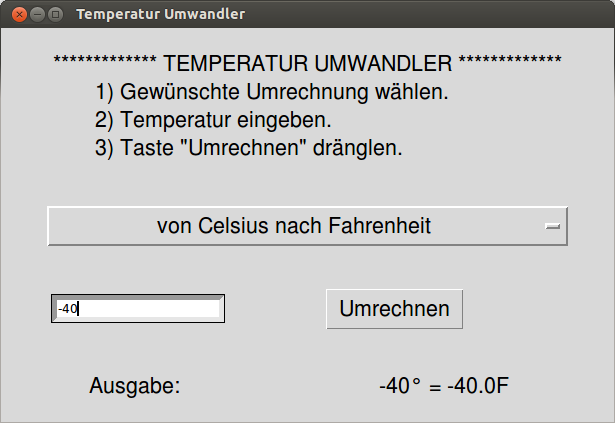
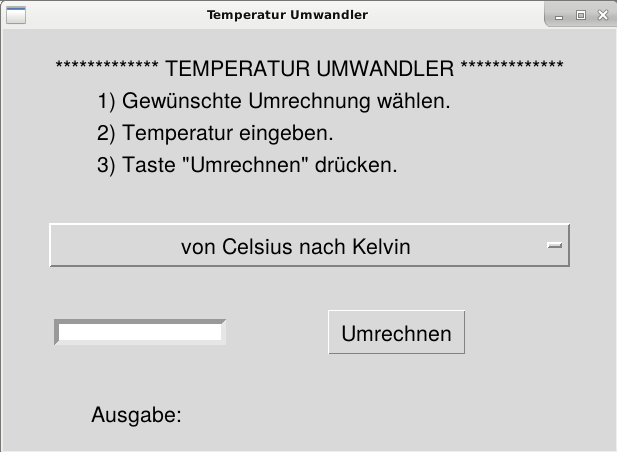
Kapitel Aufgabensammlung: Viele Sätze umformuliert und Grammatikfehler korrigiert. Bis und mit Aufgabe 10.2.2.

diff --git a/source/code/musterloesungen/temperatur_gui.py b/source/code/musterloesungen/temperatur_gui.py
@@ -75,7 +75,7 @@ info = Label(fenster, justify = LEFT, font=("Helvetica", 16),
 ************* TEMPERATUR UMWANDLER *************
        1) Gewünschte Umrechnung wählen.
        2) Temperatur eingeben.
-       3) Taste "Umrechnen" dränglen.""")
+       3) Taste "Umrechnen" drücken.""")
 
 u1 = "von Celsius nach Kelvin"
 u2 = "von Celsius nach Fahrenheit"

diff --git a/source/code/musterloesungen/hello_i_am.py b/source/code/musterloesungen/hello_i_am.py
@@ -3,4 +3,5 @@
 # author: Martino Antognini (uzh)
 
 print("Hallo Welt!")
-print("Ich heisse Guido van Rossum, ich bin am 31. Januar 1956 geboren und bin der Autor der Programmiersprache Python!")
+print("Ich heisse Guido van Rossum, ich bin am 31. Januar 1956 geboren \
+und bin der Autor der Programmiersprache Python!")

diff --git a/source/code/musterloesungen/bogen_nach_gradmass.py b/source/code/musterloesungen/bogen_nach_gradmass.py
@@ -2,7 +2,7 @@
 # -*- coding: utf8 -*-
 # author: Martino Antognini (uzh)
 
-# Wir brauchen die Zahl pi vom library "math"
+# Wir brauchen die Zahl pi von der Library "math"
 from math import pi
 
 rad = float(input("Winkel in Bogenmass eingeben: "))

diff --git a/source/aufgabensammlung.rst b/source/aufgabensammlung.rst
@@ -7,21 +7,15 @@ Aufgabensammlung
 In diesem Kapitel findest du eine Sammlung von Aufgaben. Die Aufgaben sind in
 vier Teilgebiete gegliedert.
 
-Am Anfang jeder Aufgabe ist eine Liste der Kapiteln vorgegeben, die
-man für das Lösen gelesen haben soll. Zu jeder Aufgabe gibt es eine
-Musterlösung. Die Musterlösungen sind ``.py``-files und können heruntergeladen
-werden. Die Kommentare am Anfang der Dateien können ignoriert werden.  Diese
-Dateien können auf zwei Arten ausgeführt werden:
+Zu Beginn jeder Aufgabe sind die Vorkenntnisse angegeben,
+d.h. welche Kapitel mal zum Lösen gelesen haben sollte.
+Zu jeder Aufgabe gibt es eine Musterlösung. 
+Die Musterlösungen sind die ``*.py``-files 
+und können heruntergeladen werden. 
+Die Kommentare am Anfang der Dateien können ignoriert werden. 
 
-- File mit IDLE öffnen und Programm mit der F5-Taste (Run -> Run Module) 
-  ausführen.
-- Befehl ``python3 filename.py`` im Terminal eingeben. Man muss aber zuerst im
-  richtigen Verzeichnis sein. Zum Beispiel, wenn die Datei im Verzeichnis
-  *Home->Workspace->PythonWorkspace* gespeichert wurde, muss man zuerst mit
-  ``cd Home/Workspace/PythonWorkspace`` sich verlagern (``cd`` bedeutet *change
-  directory*).
-
-Ausserdem gibt es Zusatzaufgaben, für die keine Musterlösung vorhanden ist.
+Weiter gibt es jeweils noch eine Zusatzaufgabe, 
+für welche keine Musterlösung vorhanden ist.
 
 Allgemein
 =========
@@ -31,14 +25,14 @@ Hello World! I'm...
 
 **Vorkenntnisse:** Kapitel 1.
 
-Erstelle ein Programm, das deinen Vorname, Nachname und Geburtsdatum auf der
-Konsole aufdruckt.
+Erstelle ein Programm, das deinen Vorname, Nachname 
+und dein Geburtsdatum auf der Konsole ausgibt.
 
 **Musterlösung:**
 :download:`hello_i_am.py <code/musterloesungen/hello_i_am.py>`.
 
-**Zusatzaufgabe:** Erweitere dein Programm, indem es auch zum Beispiel deine 
-Adresse oder dein Telefonnummer aufdruckt.
+**Zusatzaufgabe:** Erweitere dein Programm, 
+indem es zum Beispiel auch deine Adresse oder deine Telefonnummer ausgibt.
 
 
 Winkelmass Umwandler
@@ -46,34 +40,38 @@ Winkelmass Umwandler
 
 **Vorkenntnisse:** Kapitel 1 bis 3.
 
-Schreibe ein Programm, das, gegeben einen Winkel in Bogenmass, den 
-entsprechenden Winkel in Gradmass berechnet. Die Ausgabe muss mit Grad (°),
-Bogenminuten (\') und Bogensekunden (\") aufgewiesen werden.
+Schreibe ein Programm, 
+das zu einem gegebenen Winkel im Bogenmass
+(Eingabe in der Konsole durch den Benutzer), 
+den entsprechenden Winkel im Gradmass berechnet. 
+Die Ausgabe soll mit Grad (°), Bogenminuten (\') 
+und Bogensekunden (\") ausgegeben werden.
 
 Hinweise:
 
-- Die Zahl :math:`\pi` kannst du vom Modul ``math`` importieren, indem du
-  folgendes Befehl am Anfang deines Programms schreibst:
-  ``from math import pi``. Du kannst dann im Programm mit der Variable ``pi``
-  arbeiten.
+- Die Zahl :math:`\pi` kann vom Modul ``math`` mit dem folgenden Befehl
+  geladen werden: ``from math import pi``. 
+  Der Wert ist dann in der Variable ``pi`` gespeichert.
 - Überlege dir, wie man die zwei Befehle :py:func:`input()` und 
-  :py:func:`float()` benutzen kann, um eine Flieskommazahl lesen zu können.
+  :py:func:`float()` benutzen kann, 
+  um eine Flieskommazahl einzulesen.
 
 **Musterlösung:**
 :download:`bogen_nach_gradmass.py 
 <code/musterloesungen/bogen_nach_gradmass.py>`.
 
-**Zusatzaufgabe:** Schreibe ein anderes Programm, das die umgekehrte Umrechnung
-durchführt.
+**Zusatzaufgabe:** Schreibe ein Programm, 
+welches die Umrechnung vom Gradmass ins Bogenmass übernimmt.
 
 Temperatur Umwandler
 --------------------
 
 **Vorkenntnisse:** Kapitel 1 bis 5.
 
-Schreibe ein Programm, das Temperaturen in verschiedenen Skalensystemen
-umwandelt. Das Programm soll ein Anfangsmenü mit den verschiedenen
-Möglichkeiten haben::
+Schreibe ein Programm, 
+das Temperaturen in verschiedene Skalensystemen ineinander umwandelt. 
+Das Programm soll zu Beginn eine Auswahl mit den verschiedenen
+Möglichkeiten anbieten::
 
    (1) Umrechnung von Celsius nach Kelvin
    (2) Umrechnung von Celsius nach Fahrenheit
@@ -82,62 +80,66 @@ Möglichkeiten haben::
    (5) Umrechnung von Fahrenheit nach Celsius
    (6) Umrechnung von Fahrenheit nach Kelvin
 
-Achte auf folgende Bemerkungen:
+.. note:: Dies kann dir sicher helfen.
 
-- Celsius = 5/9 * (Fahrenheit - 32).
-- Celsius = Kelvin - 273.15.
-- Die tiefste mögliche Temperatur ist den absoluten Nullpunkt ``0K``.
+	  * Celsius = 5/9 * (Fahrenheit - 32).
+
+	  * Celsius = Kelvin - 273.15.
+
+	  * Die tiefste mögliche Temperatur ist den absoluten Nullpunkt ``0K``.
 
 Hinweise:
 
-- Benutze die :py:keyword:`if`-:py:keyword:`elif`-:py:keyword:`else`
+* Benutze die :py:keyword:`if`-:py:keyword:`elif`-:py:keyword:`else`
   Verzweigung.
 
 
 **Musterlösung:** :download:`temperatur_umwandler.py 
 <code/musterloesungen/temperatur_umwandler.py>`.
 
-**Zusatzaufgabe:** Passe deine Lösung der Aufgabe `Winkelmass Umwandler`_ so an,
-dass beide Umrechnungen (Bogen- nach Gradmass und umgekehrt) in einem einzelnen
-Programm möglich sind.
+**Zusatzaufgabe:** Passe deine Lösung aus der Aufgabe 
+`Winkelmass Umwandler` so an,
+dass beide Umrechnungen (Bogen- nach Gradmass und umgekehrt) 
+in einem einzelnen Programm möglich sind.
 
 Mit Funktionen
 --------------
 
 **Vorkenntnisse:** Kapitel 1 bis 6.
 
-Erweitere deine Lösung der vorherige Aufgabe, indem du für die
-Umrechnung 6 verschiedene Funktionen definierst. Passt ausserdem dein
-Programm so an, dass der Benutzer mehrere Temperaturen nacheinander umrechnen
-kann und selber dann das Programm beenden kann.
+Erweitere deine Lösung der vorherigen Aufgabe, 
+indem du für die Umrechnung 6 verschiedene Funktionen definierst. 
+Passe ausserdem dein Programm so an, 
+dass der Benutzer mehrere Temperaturen nacheinander umrechnen kann 
+und den Zeitpunkt zum Beenden des Programms selber bestimmt.
 
 Hinweise:
 
-- Bei der Implementierung von Programmen braucht man einige konstante Werte
-  (zum Beispiel brauchst du in dieser Aufgabe den Wert des absoluten Nullpunktes
-  :math:`-273.15` in Celsius-Skala).
-  Es ist lohnenswert, solche Konstanten am Anfang des Programms
-  zu definieren. In einiger Programmiersprache gibt es sogar die Möglichkeit, 
-  \"Variablen\" zu definieren, deren Wert nicht geändert werden kann. In Python
-  gibt allerdings diese Möglichkeit nicht. Per Konvention benennt der Ersteller
-  die Konstanten mit grossgeschriebenen Namen
-  (z.B. ``ABSOLUTER_NP_C = -273.15``).
-- Um nach einer Eingabe dem Benutzer zu fragen, kannst du folgende Funktion
-  benutzen:
+- Bei der Implementierung braucht man einige konstante Werte
+  (zum Beispiel brauchst du in dieser Aufgabe 
+  den Wert des absoluten Nullpunktes -273.15 in Grad Celsius).
+  Es lohnt sich solche Konstanten am Anfang des Programms zu definieren. 
+  In einigen Programmiersprachen gibt es sogar die Möglichkeit, 
+  \"Variablen\" zu definieren, deren Werte nicht geändert werden können. 
+  In Python gibt es diese Möglichkeit jedoch nicht. 
+  Per Konvention benennt der Entwickler die Konstanten mit 
+  grossgeschriebenen Buchstaben (z.B. ``ABSOLUTER_NP_C = -273.15``).
+- Um nach einer gültigen Eingabe des Benutzers zu fragen, 
+  kannst du die folgende Funktion benutzen:
 
 	.. literalinclude:: code/exception_muster.py
 	    	  :linenos:
 
-  Diese Funktion hat ein optionales Argument ``msg``. Wenn die Funktion ohne
-  Argumente aufgerufen wird, nimmt ``msg`` den vorgegebenen Wert
-  ``"Bitte Zahl eingeben: "``. Falls der Benutzer eine Zahl eingibt, so wird
-  diese zurückgegeben. Andere Eingaben werden allerdings nicht akzeptiert: das
-  Programm erkennt ungültige Eingabe mit der Ausnahmebehandlung
-  (:py:keyword:`try`-:py:keyword:`except`) und fragt unmittelbar nach einer
-  anderen Eingabe.
+  Diese Funktion hat ein optionales Argument ``msg``. 
+  Wenn die Funktion ohne Argumente aufgerufen wird, 
+  nimmt ``msg`` den vorgegebenen Wert ``"Bitte Zahl eingeben: "`` an. 
+  Falls der Benutzer eine Zahl eingibt, so wird diese zurückgegeben. 
+  Andere Eingaben werden nicht akzeptiert: das
+  Programm erkennt ungültige Eingaben mit der Ausnahmebehandlung
+  (:py:keyword:`try`-:py:keyword:`except`) und fragt solange,
+  bis eine gültige Eingabe getätigt wurde.
 - Analog kannst du ungültige Eingabewerte für die Temperatur mit
-  :py:keyword:`raise` wie im folgenden Beispiel (Funktion für die Umrechnung von
-  Celsius nach Kelvin) überprüfen:
+  :py:keyword:`raise` überprüfen. Siehe folgendes Beispiel:
 
 	.. literalinclude:: code/exception_muster2.py
 	    	  :linenos:
@@ -145,17 +147,17 @@ Hinweise:
 **Musterlösung:** :download:`temperatur_umwandler_erweiterung.py 
 <code/musterloesungen/temperatur_umwandler_erweiterung.py>`.
 
-**Zusatzaufgabe:** Erweitere die Lösung der vorherigen Zusatzaufgabe (Winkelmass
-Umwandler), indem du Funktionen implementierst.
+**Zusatzaufgabe:** Erweitere die Lösung der vorherigen Zusatzaufgabe 
+(Winkelmass Umwandler), indem du Funktionen implementierst.
 
 Mit GUI
 -------
 
 **Vorkenntnisse:** Kapitel 1 bis 8.
 
-Versuche deine Lösung von vorherigen Aufgabe mit einer
-graphische Benutzeroberfläche zu erweitern. Die Fenster soll folgende Elemente
-enthalten:
+Versuche deine Lösungen von den vorherigen Aufgaben mit einer
+graphische Benutzeroberfläche zu erweitern. 
+Das Fenster soll folgende Elemente enthalten:
 
 - ein OptionMenu Widget für die Wahl der Umrechnung (Celsius nach Kelvin, ...).
 - ein Entry Widget, für die Eingabe der Temperatur.
@@ -175,26 +177,28 @@ Für die Erstellung des OptionMenus kannst du folgendes Muster anpassen:
 **Musterlösung:** :download:`temperatur_gui.py
 <code/musterloesungen/temperatur_gui.py>`.
 
-**Zusatzaufgabe:** Erstelle auch für den Winkelmass Umwandler eine GUI.
+**Zusatzaufgabe:** Erstelle auch für den Winkelmass Umwandler ein GUI.
 
 Sortierprogramm
 ---------------
 
 **Vorkenntnisse:** Kapitel 1 bis 4.
 
-Schreibe ein Programm, welches eine Liste von ganzen Zahlen wachsend sortiert.
-Die Elementen der Liste werden nacheinander den Benutzer gefragt. Der Benutzer
-soll so viele Elementen eingeben, wie er will. Wenn er mit der Eingabe fertig
-ist, soll er mit einem Befehl (zum Beispiel ``q`` eingeben) die Eingabe
-beenden.
+Schreibe ein Programm, welches eine Liste bestehend aus ganzen Zahlen 
+aufsteigend sortiert.
+Der Benutzer soll per Eingabe entscheiden, 
+welche Elemente in die Liste kommen 
+und er soll so viele Elementen eingeben können, 
+wie er will. Wenn er mit der Eingabe fertig ist, 
+soll er mit einem Befehl (zum Beispiel ``q``) die Eingabe beenden.
 
 Hinweis: :py:keyword:`while`
 
 **Musterlösung:** :download:`sortierprogramm.py 
 <code/musterloesungen/sortierprogramm.py>`.
 
-**Zusatzaufgabe:** Schreibe ein anderes Programm, das eine Liste von
-Zeichenkette alphabetisch sortiert.
+**Zusatzaufgabe:** Schreibe ein anderes Programm, 
+welches eine Liste aus Zeichenketten alphabetisch sortiert.
 
 
 Prof. Ungerechtmann
@@ -203,15 +207,15 @@ Prof. Ungerechtmann
 **Vorkenntnisse:** Kapitel 1 bis 5.
 
 Professor Ungerechtmann der Kantonsschule Unfairdorf braucht ein Programm für
-die Notenvergabe der Abschlussprüfung. Die Abschlussnote hängt von folgenden
-Parameter ab:
+die Notenvergabe der Abschlussprüfung. Die Abschlussnote hängt von 
+den folgenden Parametern ab:
 
 - Prüfungsnote (von 1 bis 6 mit Halbpunkten);
 - Augenfarbe (z.B. dunkel=1, hell=0);
 - Frisur (z.B. kurze Haare=1, lange Haare=0);
 - Wetter (z.B. schön=1, nicht schön=0).
 
-Es gilt Folgendes:
+Es gilt folgendes:
 
 - Hat der Prüfling dunkle Augen und...
 
@@ -245,17 +249,17 @@ Flache Steuern
 
 Der Steueramtchef von Flächenland stellt dich an, um ein einfaches Programm in
 Python zu schreiben. Dieses Programm soll den Steuersatz jedes Steuerzahlers
-berechnen. Die Eigabeparameter sind:
+berechnen. Die Eingabeparameter sind:
 
 - Vorname und Nachname des Steuerzahlers
 - Einkommen (in Dublonen, die Währung von Flächenland)
 
-Die Ausgabe soll folgender Form sein:
+Die Ausgabe soll von folgender Form sein:
 
    ``Der Steuerzahler Vorname Nachname muss für das laufende Jahr X Dublonen dem
    Steueramt bezahlen.``
 
-Der Steuersatz ist gemäss folgender Tabelle bestimmt:
+Der Steuersatz wird gemäss folgender Tabelle bestimmt:
 
 =============================  ==============
 **Einkommen** :math:`E`        **Steuersatz**
@@ -269,11 +273,11 @@ Der Steuersatz ist gemäss folgender Tabelle bestimmt:
 **Musterlösung:** :download:`flache_steuern.py 
 <code/musterloesungen/flache_steuern.py>`.
 
-**Zusatzaufgabe:** Berücksichtige in deinem Programm neben das Einkommen
-auch die Habseligkeit.
+**Zusatzaufgabe:** Berücksichtige in deinem Programm neben dem Einkommen
+auch das Vermögen.
 
 =================================  ==============
-**Habseligkeit** :math:`H`         **Steuersatz**
+**Vermögen** :math:`H`     	   **Steuersatz**
 ---------------------------------  --------------
 :math:`H \le 100'000`              5\%
 :math:`100'000 < H \le 500'000`    8\%
@@ -282,7 +286,7 @@ auch die Habseligkeit.
 =================================  ==============
 
 Hat zum Beispiel ein Steuerzahler :math:`25'000` Dublonen Einkommen und 
-:math:`600'000` Dublonen Habseligkeit, so muss er
+:math:`600'000` Dublonen Vermögen, so muss er
 
 .. math:: 25'000 \cdot \frac{55}{100} + 600'000 \cdot \frac{13}{100} = 91'750
 
@@ -317,23 +321,24 @@ Erstelle ein Programm zur Lösung von quadratische Gleichungen
 
 .. math:: ax^2 + bx + c = 0.
 
-Die reellen Koeffizienten :math:`a, b, c` sind den Benutzer gefragt.
+Die reellen Koeffizienten :math:`a, b, c` werden vom Benutzer eingegeben.
 
 Hinweise:
 
 - Das Programm kann man elegant gestalten, indem man am Anfang verschiedene
   Fälle unterscheidet. Was passiert zum Beispiel wenn :math:`a=0`? Wenn 
   :math:`b^2-4ac < 0`? ...
-- Analog wie die Zahl :math:`\pi` kann die quadratische Wurzel (``sqrt``) mit
-  ``from-import`` vom Module ``math`` importiert werden.
+- Analog wie die Zahl :math:`\pi` kann die Funktion zur Berechnung von 
+  Quadratwurzeln (``sqrt``) vom Module ``math`` importiert werden.
 
 **Musterlösung:** :download:`quadratische_gleichungen.py 
 <code/musterloesungen/quadratische_gleichungen.py>`.
 
-**Zusatzaufgabe:** Gegeben eine quadratische Funktion :math:`f(x) = ax^2+bx+c`
-durch den Koeffizienten ``a, b, c`` und eine lineare Funktion
-:math:`g(x) = mx + q` durch ``m, q``, erstelle ein Programm, das
-die Schnittpunkte von :math:`f` und :math:`g` findet.
+**Zusatzaufgabe:** Sei eine quadratische Funktion 
+:math:`f(x) = ax^2+bx+c` durch ihre Koeffizienten ``a, b, c``
+und eine lineare Funktion :math:`g(x) = mx + q` durch ``m`` und ``q`` gegeben.
+Erstelle ein Programm, das die Schnittpunkte 
+der Graphen von :math:`f` und :math:`g` berechnet.
 
 
 Zahlenfolge
